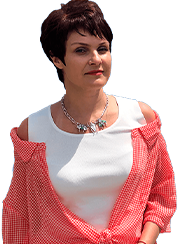
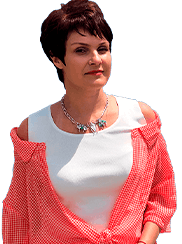
compress images and minor fix

diff --git a/index_files/main.css b/index_files/main.css
@@ -493,7 +493,7 @@ p {
   align-items: center;
   width: 100%;
   height: 77px;
-  background: red;
+  background: red !important;
   border: none;
   border-radius: 0;
   cursor: pointer;
@@ -503,10 +503,11 @@ p {
   font-weight: 700;
   color: #ffffff;
   text-decoration: none;
+  border-radius: 4px !important;
 }
 
 .lity-container .participate-popup form button[type="submit"]:hover {
-  background-color: #000000;
+  background-color: #000000 !important;
   text-decoration: none;
   color: #ffffff;
 }
